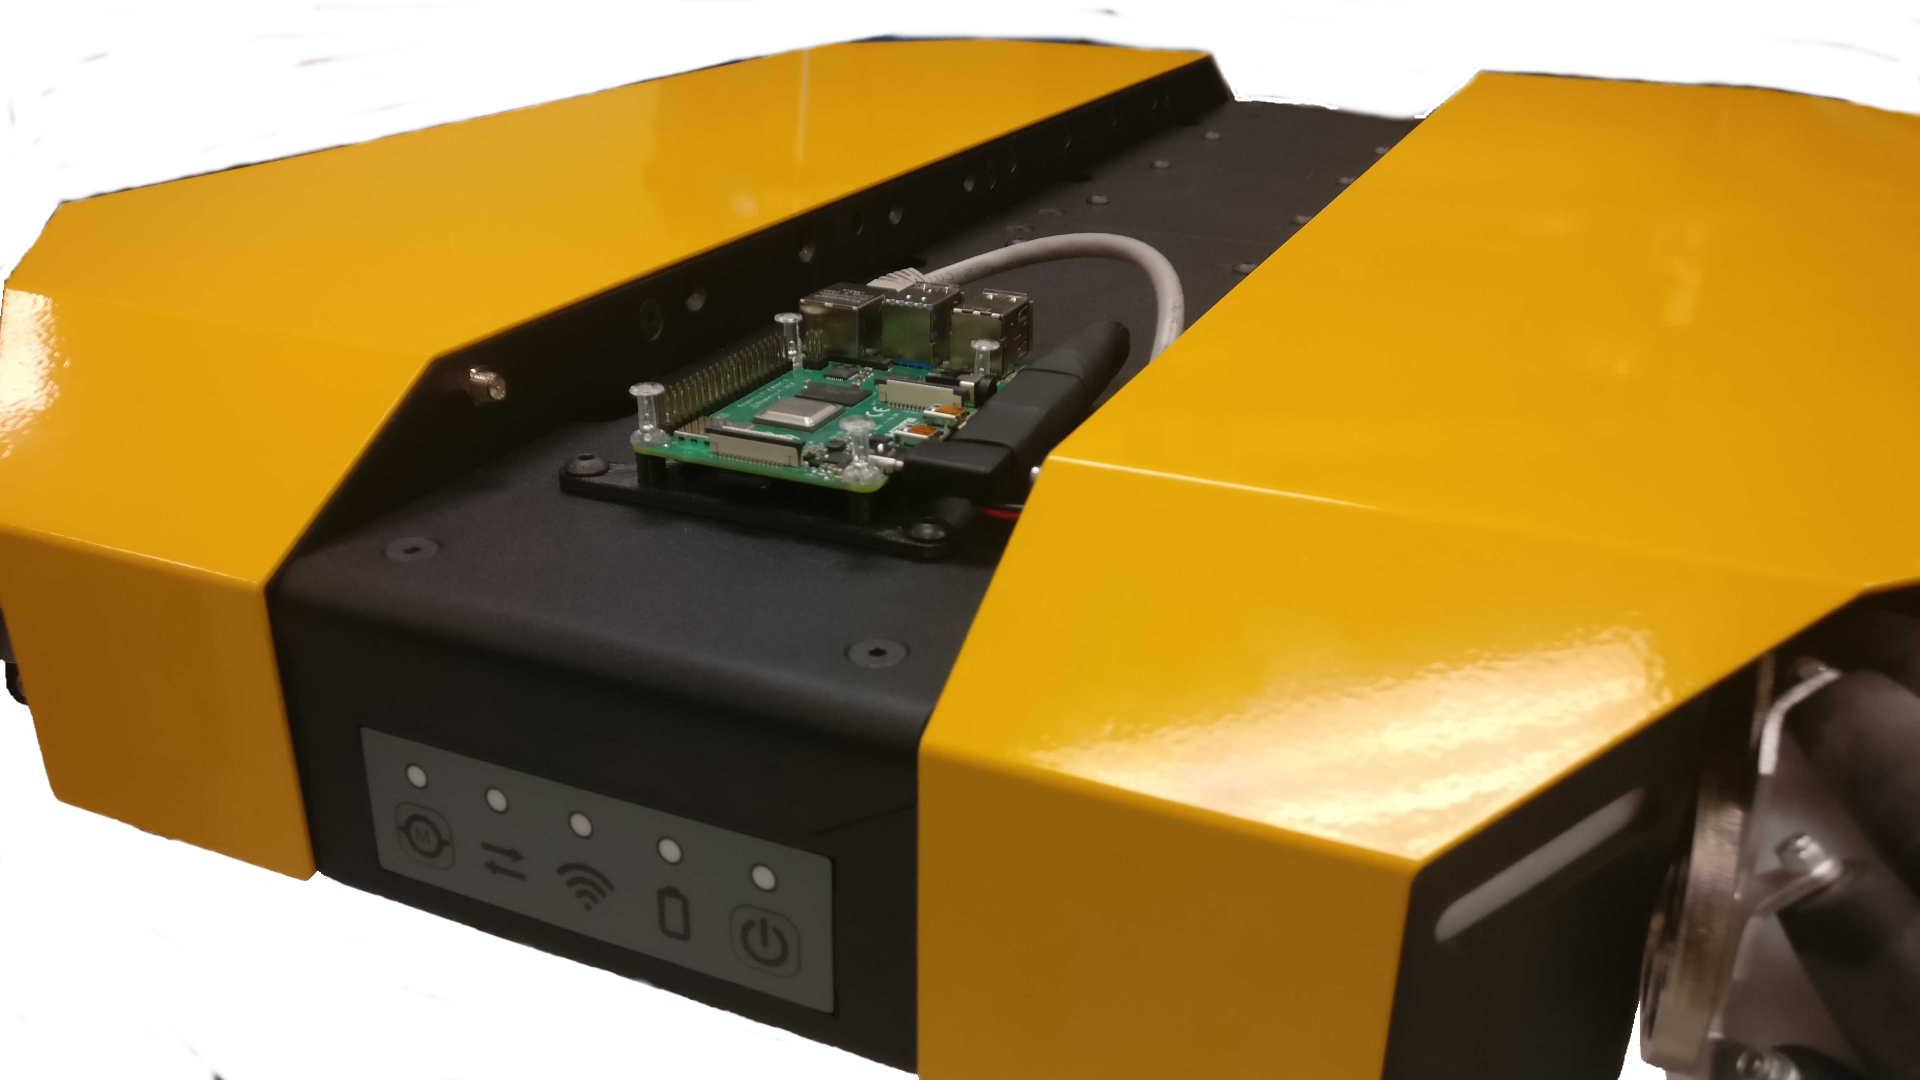
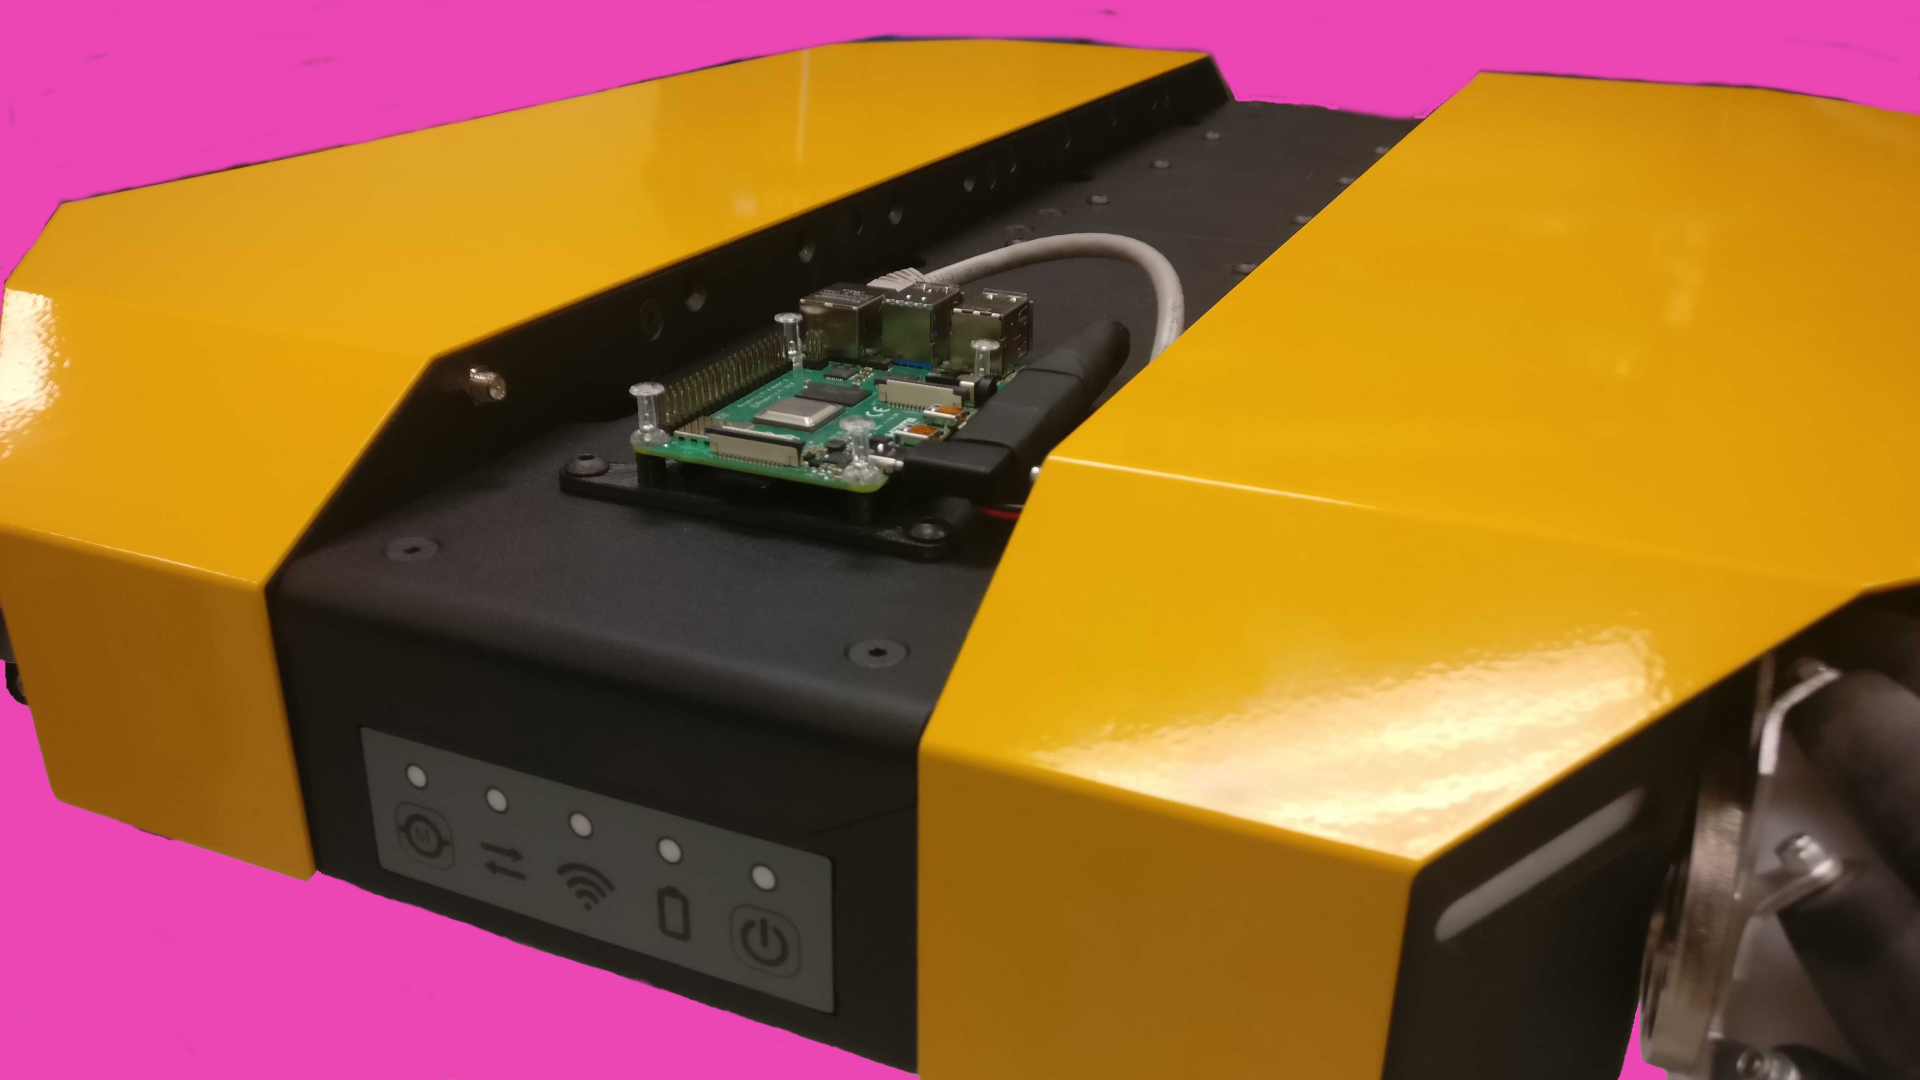
changed README markdown to adjust image width. photo edited to erase some of the background.

Changed region(s): [[0.0, 0.0, 1.0, 0.275], [0.0, 0.6111, 0.4688, 1.0], [0.8438, 0.9472, 0.875, 1.0]]

diff --git a/README.md b/README.md
@@ -1,4 +1,4 @@
 # dingo-raspberry-pi
 Installing Raspberry Pi 4 on Clearpath Dingo
 
-![Image of dingo and pi](/images/dingo-raspberry-pi-1.png)
+<img src="/images/dingo-raspberry-pi-1.png" alt="Image of dingo and pi" width="300" >
